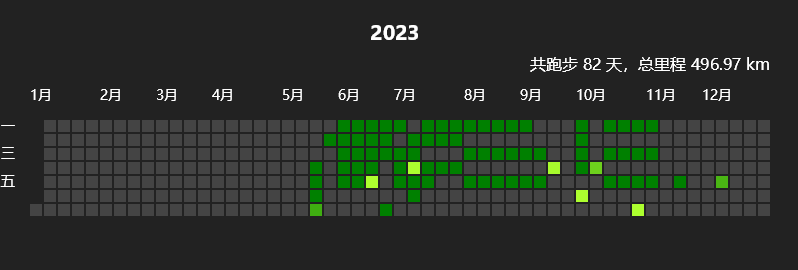
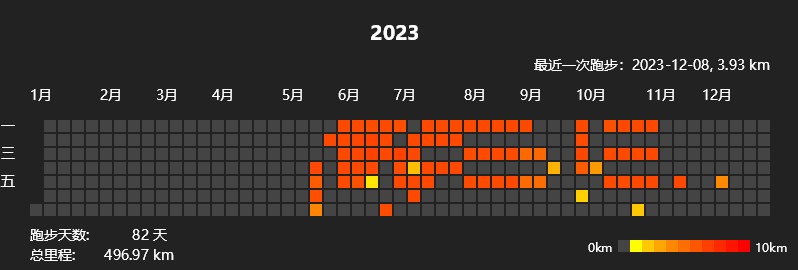
.

diff --git a/MainWindow.xaml.cs b/MainWindow.xaml.cs
@@ -228,17 +228,19 @@ public partial class MainWindow : Window
         for (int i = 0; i <= 10; i++)
         {
             float x = legendX + i * CellSize;
-            SKColor color = i == 0
-                ? (_isDarkMode ? new SKColor(68, 68, 68) : SKColors.LightGray)
-                : GetDayColor(i);
+            SKColor color = GetDayColor(i);
             paint.Color = color;
 
             canvas.DrawRect(new SKRect(x, legendY, x + CellSize, legendY + CellSize), paint);
         }
 
+        float textOffsetY = textPaint.TextSize / 2;
+        float textOffsetX = 5;
+
         // 绘制图例文字
-        canvas.DrawText("0km", legendX + CellSize / 2 - textPaint.MeasureText("0km") / 2 - 2*CellSize, legendY + CellSize / 2 + textPaint.TextSize / 2, textPaint);
-        canvas.DrawText("10km", legendX + 11 * CellSize + 5, legendY + CellSize / 2 + textPaint.TextSize / 2, textPaint);
+        canvas.DrawText("0km", legendX + CellSize / 2 - textPaint.MeasureText("0km") / 2 - 2 * CellSize, legendY + CellSize / 2 + textOffsetY, textPaint);
+        canvas.DrawText("5km", legendX + 6 * CellSize - textPaint.MeasureText("5km") / 2 + 4, legendY + CellSize + textOffsetY + textOffsetX, textPaint);
+        canvas.DrawText("10km", legendX + 11 * CellSize + textOffsetX, legendY + CellSize / 2 + textOffsetY, textPaint);
     }
 
     private void DrawHeatmap(SKCanvas canvas)
@@ -300,7 +302,7 @@ public partial class MainWindow : Window
                 var date = startDate.AddDays(index);
                 double v = _data.TryGetValue(date, out double value) ? value : 0;
 
-                SKColor color =GetDayColor(v);
+                SKColor color = GetDayColor(v);
 
                 labelPaint.Color = color;
 
@@ -338,21 +340,20 @@ public partial class MainWindow : Window
         // 将距离限制在 1-10km 范围内
         distance = Math.Max(minDistance, Math.Min(maxDistance, distance));
 
-        // 计算归一化的距离值 (0.0 - 1.0)
-        double normalizedDistance = (distance - minDistance) / (maxDistance - minDistance);
+        // 使用更强的非线性函数计算归一化的距离值 (0.0 - 1.0)
+        double normalizedDistance = Math.Pow((distance - minDistance) / (maxDistance - minDistance), 0.9);
 
-        // 定义起始颜色（更浅的绿）和结束颜色（更深的绿）
-        SKColor startColor = new SKColor(220, 255, 180);  // 更浅的绿
-        SKColor endColor = new SKColor(0, 100, 0);       // 更深的绿
+        // 定义起始颜色（黄色）和结束颜色（红色）
+        SKColor startColor = new SKColor(255, 255, 0);  // 黄色
+        SKColor endColor = new SKColor(255, 0, 0);      // 红色
 
-        // 使用线性插值计算中间颜色
+        // 使用插值计算中间颜色
         byte r = (byte)(startColor.Red + (endColor.Red - startColor.Red) * normalizedDistance);
         byte g = (byte)(startColor.Green + (endColor.Green - startColor.Green) * normalizedDistance);
         byte b = (byte)(startColor.Blue + (endColor.Blue - startColor.Blue) * normalizedDistance);
 
         return new SKColor(r, g, b);
     }
-
     private static ChineseDayOfWeek GetChineseDayOfWeek(DayOfWeek dayOfWeek)
         => (ChineseDayOfWeek)(((int)dayOfWeek + 6) % 7);
 
